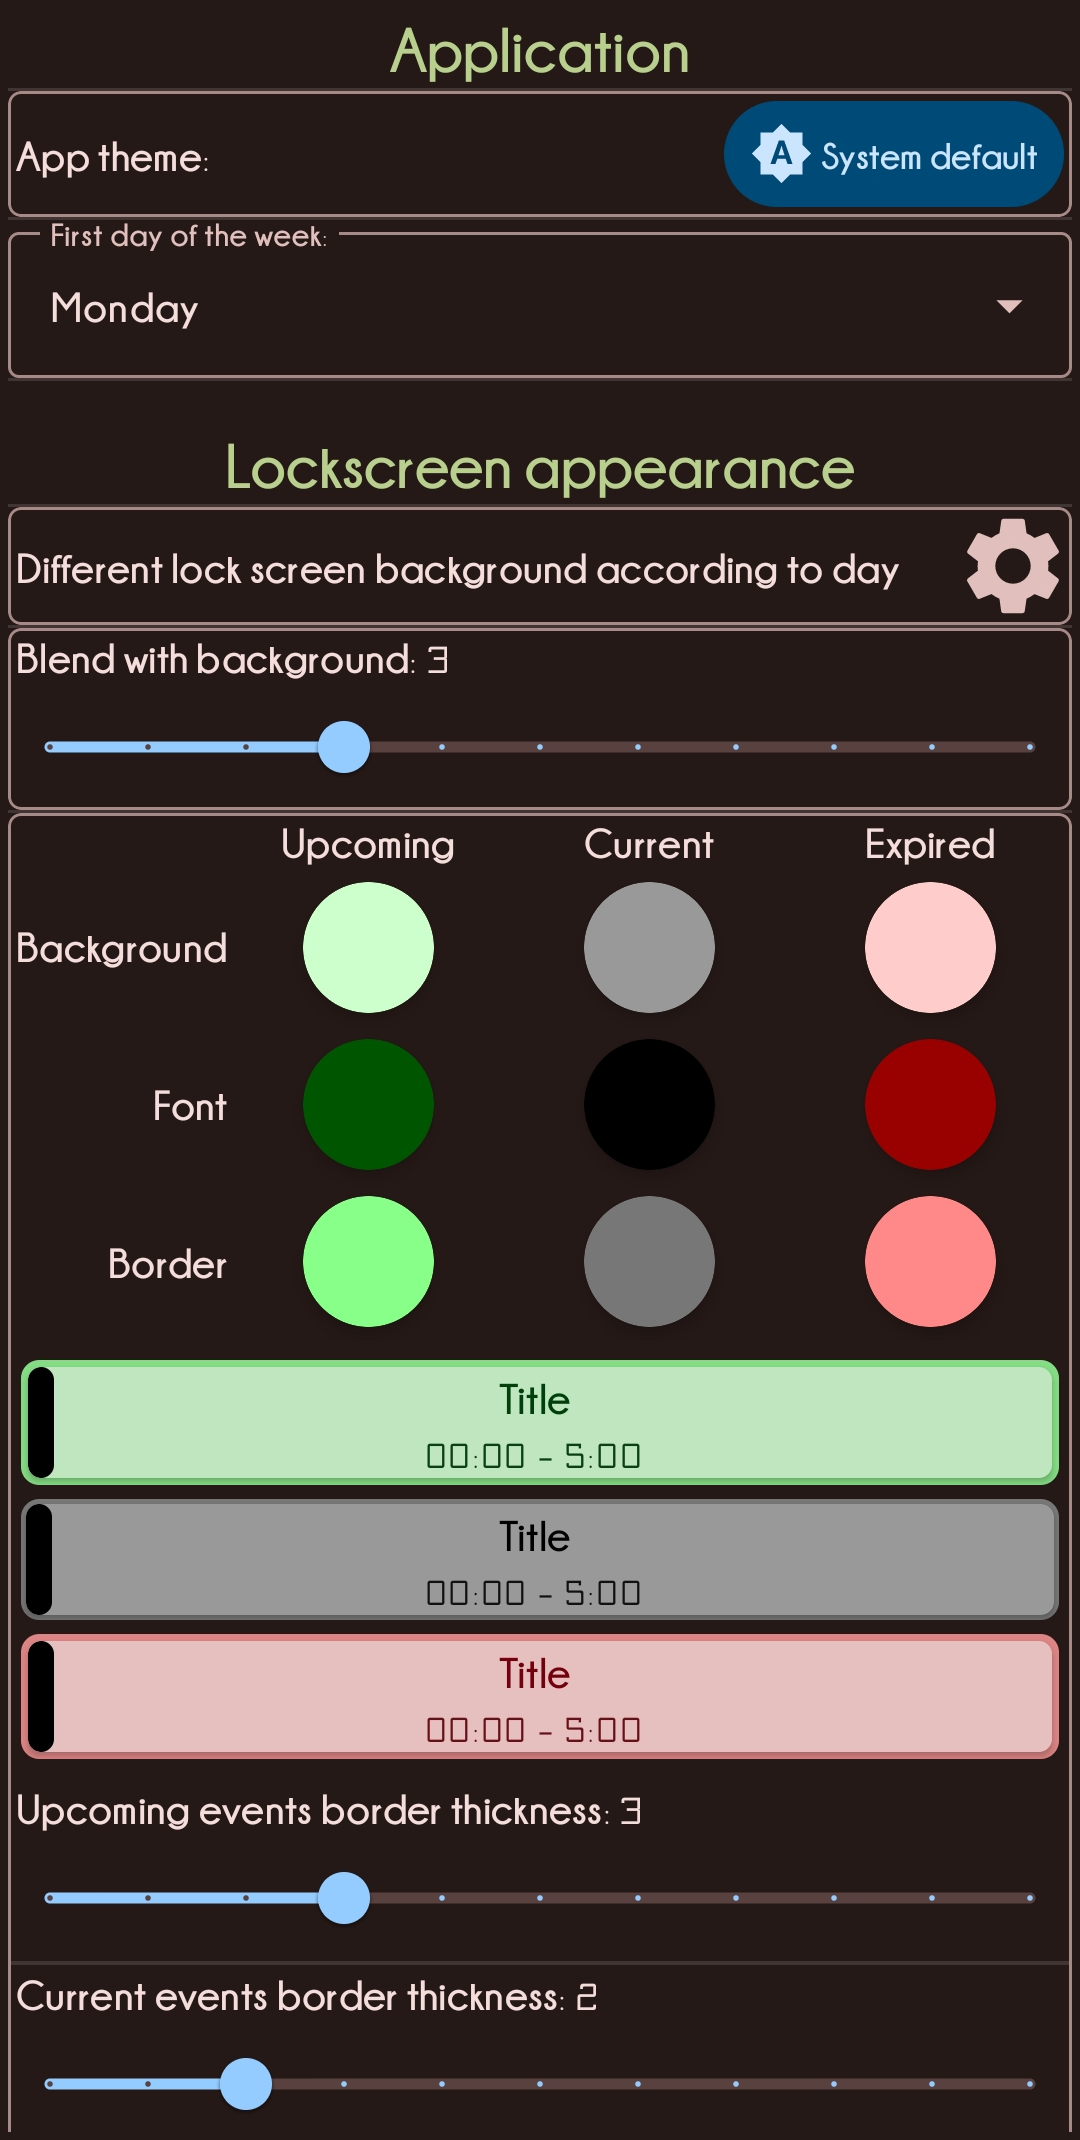
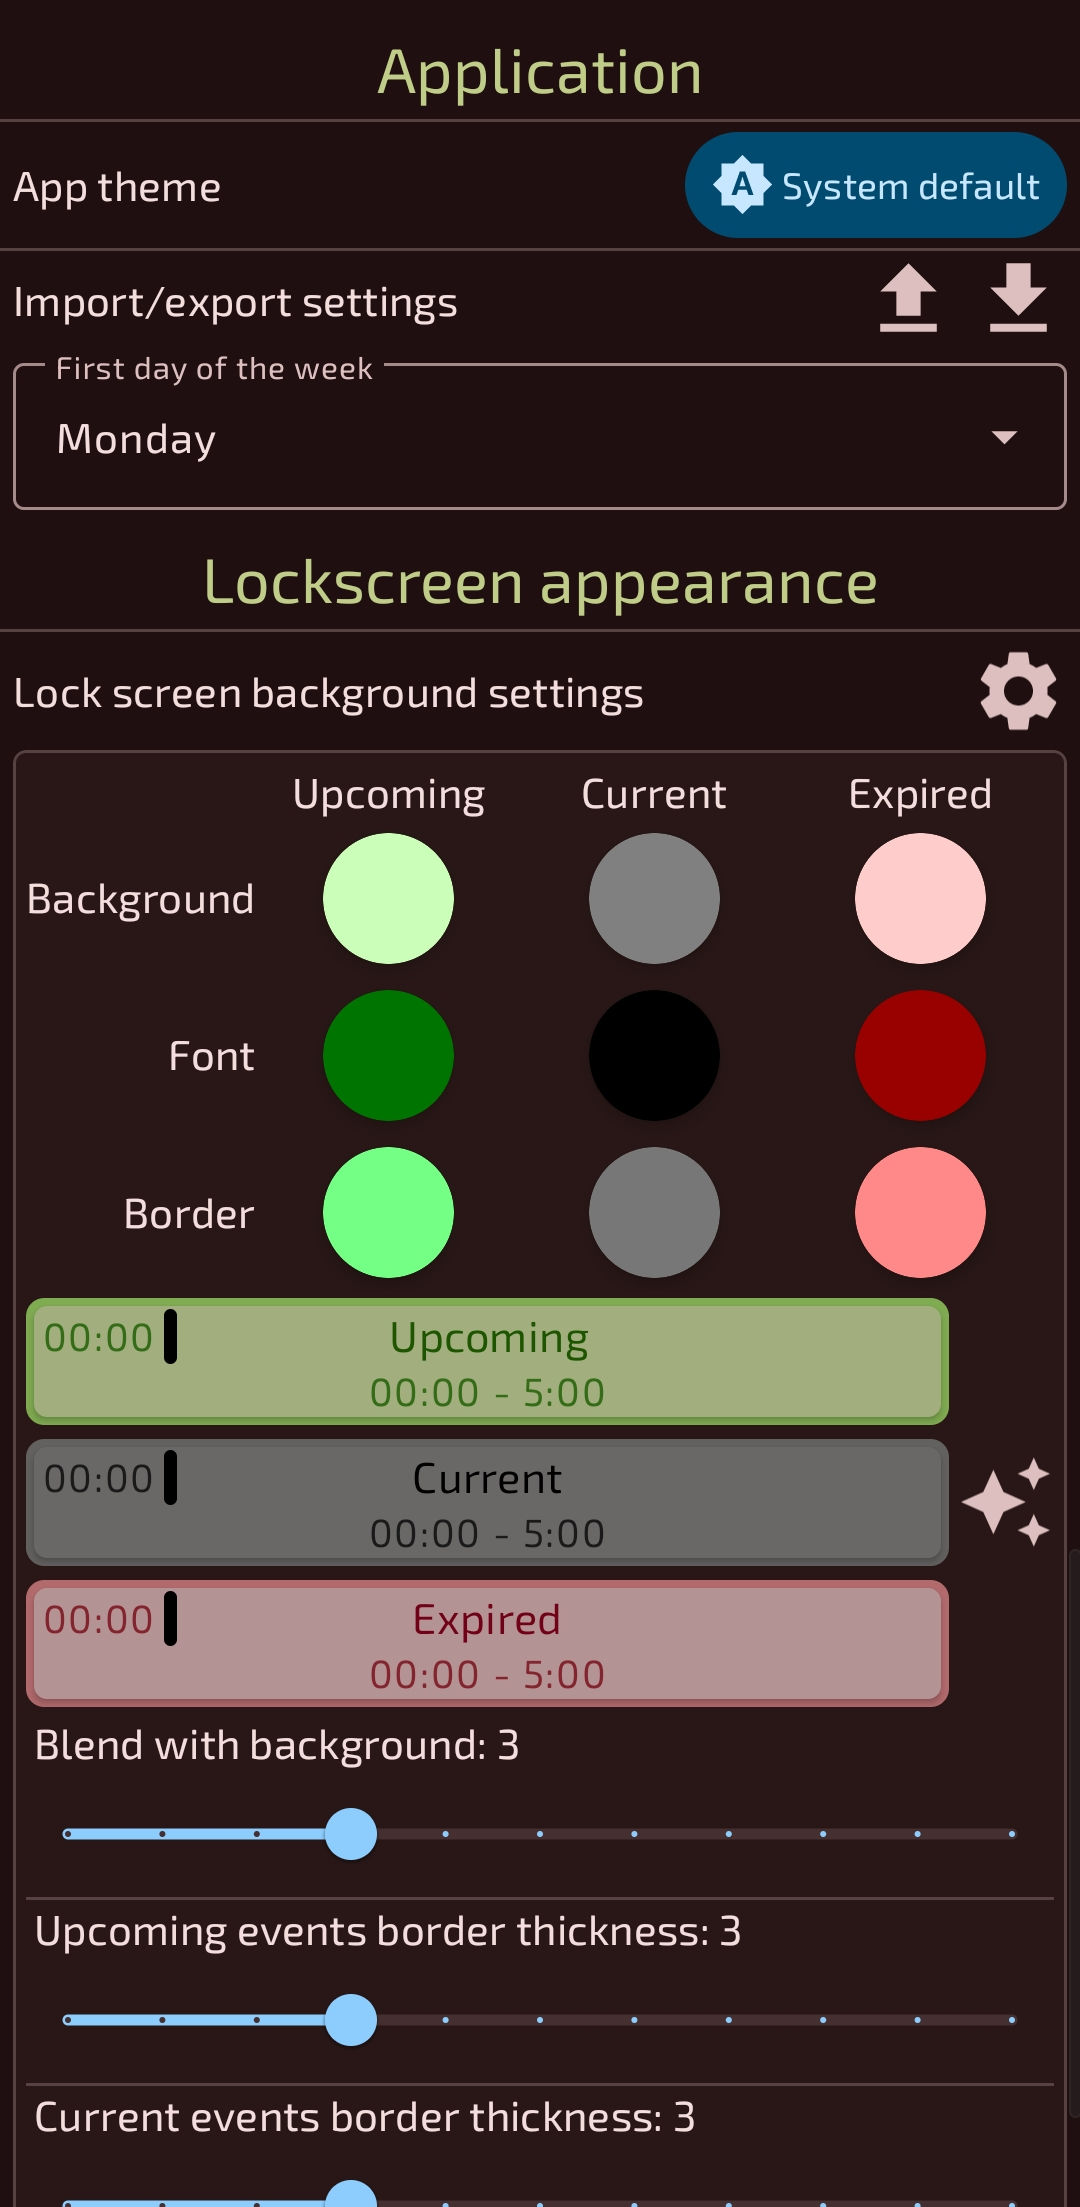
Udpate images and readme

diff --git a/README.md b/README.md
@@ -16,12 +16,12 @@ Then this app is for you, take **full advantage of your lockscreen real estate**
 - Sync with your system calendars (google, samsung, local)
 - Configurable per-day wallpapers
 - Material you theming
-- Plethora of settings
+- Plethora of functional and visual settings
 - Low memory and cpu consumption
 
 ## Requirements
 - Device running at least android 8.0 (Sdk 26)
-- A rom that does not restrict usage of `wallpaperManager` api (some versions of miui restrict that)
+- A rom that does not restrict usage of `wallpaperManager` api (some versions of miui (xiaomi) restrict that)
 
 ## Installation
 Clone this repository and import into **Android Studio**
@@ -55,6 +55,6 @@ Or just download from one of the sources
 | ------------------------- | -------------------------- |
 | ![](https://github.com/dgudim/Scheduler/blob/master/fastlane/metadata/android/en-US/images/phoneScreenshots/03.jpg?raw=true) | ![](https://github.com/dgudim/Scheduler/blob/master/fastlane/metadata/android/en-US/images/phoneScreenshots/04.jpg?raw=true) |
 
-| Per-day wallpapers        | Material you theming       |
+| Per-day wallpapers        | Different effects          |
 | ------------------------- | -------------------------- |
-| ![](https://github.com/dgudim/Scheduler/blob/master/fastlane/metadata/android/en-US/images/phoneScreenshots/05.jpg?raw=true) | ![](https://user-images.githubusercontent.com/34401005/205037183-94a75dc1-0d35-40d5-bfbb-e34913ff457b.gif) |
+| ![](https://github.com/dgudim/Scheduler/blob/master/fastlane/metadata/android/en-US/images/phoneScreenshots/05.jpg?raw=true) | ![](https://github.com/dgudim/Scheduler/blob/master/fastlane/metadata/android/en-US/images/phoneScreenshots/06.jpg?raw=true) |
